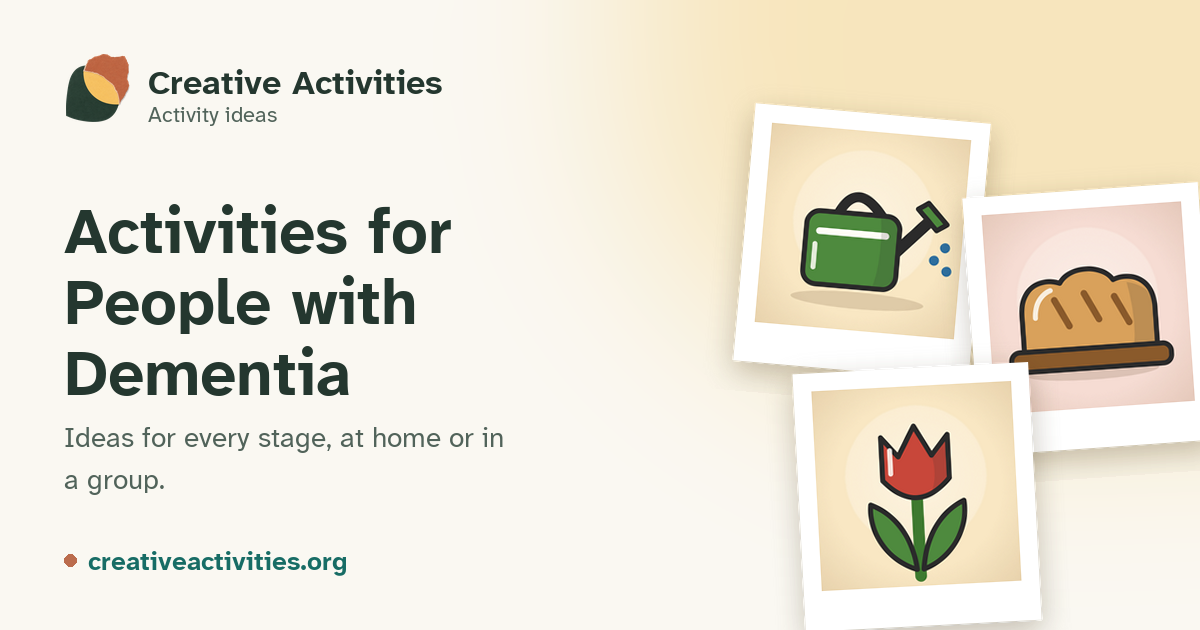
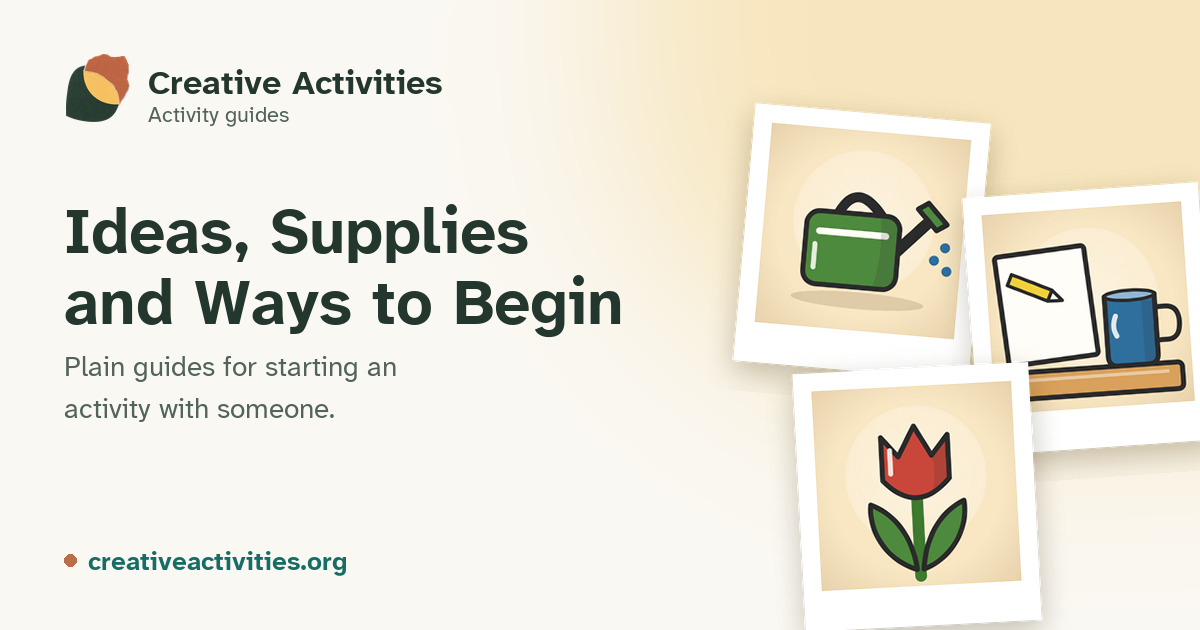
feat: share images for the new sections; retired links skip the redirect
- og images for crafts, kids, together and creative-calm; default,
  activities and caregiving images reworded for the new mission
- Translated pages link a retired guide they lack straight to its
  replacement; test that every redirect target exists

diff --git a/site/src/middleware.ts b/site/src/middleware.ts
@@ -1,6 +1,15 @@
 import { defineMiddleware } from 'astro:middleware';
 import { DEFAULT_LOCALE, localePath, splitLocale } from './i18n/locales';
 import { pathsIn } from './i18n/pages';
+import { RETIRED_SECTIONS, guideIdOfPath, guidePath, isRetiredGuide, isRetiredSection } from './lib/retired-guides';
+
+/** A retired guide or section that this language does not have leads to its English replacement. */
+function replacement(path: string): string {
+  const id = guideIdOfPath(path);
+  if (id && isRetiredGuide(id)) return guidePath(id);
+  const section = /^\/([a-z0-9-]+)\/$/.exec(path)?.[1];
+  return section && isRetiredSection(section) ? RETIRED_SECTIONS[section]! : path;
+}
 
 /** Files served the same for every language. */
 const ASSET = /^\/(?:pictures|og|fonts|icons|_astro)\/|^\/(?:favicon|manifest|sitemap|llms|robots)/;
@@ -10,7 +19,8 @@ const ASSET = /^\/(?:pictures|og|fonts|icons|_astro)\/|^\/(?:favicon|manifest|si
  * (including those inside translated Markdown) point to the same page in that
  * language when it exists, and to English when it does not. Links that name
  * a language with `hreflang` (the language menu, "read the original") and
- * assets are left alone.
+ * assets are left alone. A link to a retired English guide this language
+ * does not have goes straight to the page that replaced it (no redirect hop).
  */
 export const onRequest = defineMiddleware(async (context, next) => {
   const response = await next();
@@ -26,7 +36,8 @@ export const onRequest = defineMiddleware(async (context, next) => {
       const [pathPart, rest = ''] = target.split(/(?=[#?])/);
       const { code: linkCode, path } = splitLocale(pathPart as string);
       if (linkCode !== DEFAULT_LOCALE && linkCode !== code) return attr;
-      const next = existing.has(path) ? localePath(code, path) : path;
+      const target2 = existing.has(path) ? path : replacement(path);
+      const next = existing.has(target2) ? localePath(code, target2) : target2;
       return ` href="${next}${rest}"`;
     });
   });

diff --git a/site/src/lib/retired-guides.content.test.ts b/site/src/lib/retired-guides.content.test.ts
@@ -1,0 +1,30 @@
+import { existsSync, readFileSync } from 'node:fs';
+import { describe, expect, it } from 'vitest';
+import { RETIRED_GUIDES, RETIRED_SECTIONS, guideIdOfPath, isRetiredGuide } from './retired-guides';
+
+const content = (p: string) => new URL(`../content/${p}`, import.meta.url);
+// content.config.ts imports astro:content, which vitest cannot load; read the slug list instead.
+const GAME_SLUGS = [...readFileSync(new URL('../content.config.ts', import.meta.url), 'utf8').split('GAME_SLUGS = [')[1]!.split(']')[0]!.matchAll(/'([a-z-]+)'/g)].map((m) => m[1]!);
+
+/** True when a path is a page the build produces (a live guide, a hub, or a game page). */
+function pageExists(path: string): boolean {
+  if (path === '/games/') return true;
+  const game = /^\/games\/([a-z-]+)\/$/.exec(path);
+  if (game) return GAME_SLUGS.includes(game[1]!);
+  const hub = /^\/([a-z0-9-]+)\/$/.exec(path);
+  if (hub) return existsSync(content(`hubs/${hub[1]}.md`));
+  const id = guideIdOfPath(path);
+  return id !== null && !isRetiredGuide(id) && existsSync(content(`guides/${id}.md`));
+}
+
+describe('retired guides map (content)', () => {
+  it('only retires guides that exist, so their translations stay valid', () => {
+    for (const id of Object.keys(RETIRED_GUIDES)) expect(existsSync(content(`guides/${id}.md`)), id).toBe(true);
+  });
+
+  it('sends every retired address to a page that exists', () => {
+    for (const [from, to] of [...Object.entries(RETIRED_GUIDES), ...Object.entries(RETIRED_SECTIONS)]) {
+      expect(pageExists(to), `${from} → ${to}`).toBe(true);
+    }
+  });
+});

diff --git a/site/scripts/make-images.py b/site/scripts/make-images.py
@@ -176,12 +176,20 @@ def main() -> int:
             return cache[pid]
 
         pages = [
-            ("default", ["teacup", "sunflower", "dog"], "Free · No sign-up · No timers",
-             "Gentle Games & Activities for People with Dementia", "Simple picture games to enjoy together, at your own pace."),
-            ("activities", ["watering-can", "bread", "tulip"], "Activity ideas",
-             "Activities for People with Dementia", "Ideas for every stage, at home or in a group."),
-            ("caregiving", ["kettle", "armchair", "lamp"], "For caregivers",
-             "Practical Guides for Everyday Care", "Playing together, communication and caring for yourself."),
+            ("default", ["torn-paper-flower", "shared-painted-canvas", "paper-boat-afloat"], "Free · No sign-up · Print or play",
+             "Make Something Together", "Activities that fit the person, the moment and what you have."),
+            ("activities", ["watering-can", "sketch-materials", "tulip"], "Activity guides",
+             "Ideas, Supplies and Ways to Begin", "Plain guides for starting an activity with someone."),
+            ("crafts", ["paper-chain-garland", "painted-plant-pot", "woven-paper-mat"], "Crafts",
+             "Crafts for All Ages", "From what most homes already have, each with an easier version."),
+            ("kids", ["paper-boat-afloat", "rainbow", "kite"], "Kids",
+             "Creative Activities for Kids", "Art and play ideas with clear safety notes and an adult nearby."),
+            ("together", ["family-tree-of-hands", "open-photo-album", "letter-and-envelope"], "Together",
+             "Activities to Do Together", "For parents, grandparents, children and friends, near or far."),
+            ("creative-calm", ["watercolor-washes-sheet", "teacup", "repeating-pattern-sheet"], "Creative calm",
+             "Slow Down with a Pencil or a Song", "Gentle creative activities. Not therapy, and no skill needed."),
+            ("caregiving", ["kettle", "armchair", "lamp"], "Dementia care",
+             "Caring for Someone with Dementia", "Activities that fit, and where to find trusted help."),
             ("brain-health", ["apple", "bicycle", "moon"], "Brain health",
              "What the Research Really Says", "Plain, sourced answers. General information, not medical advice."),
         ]
